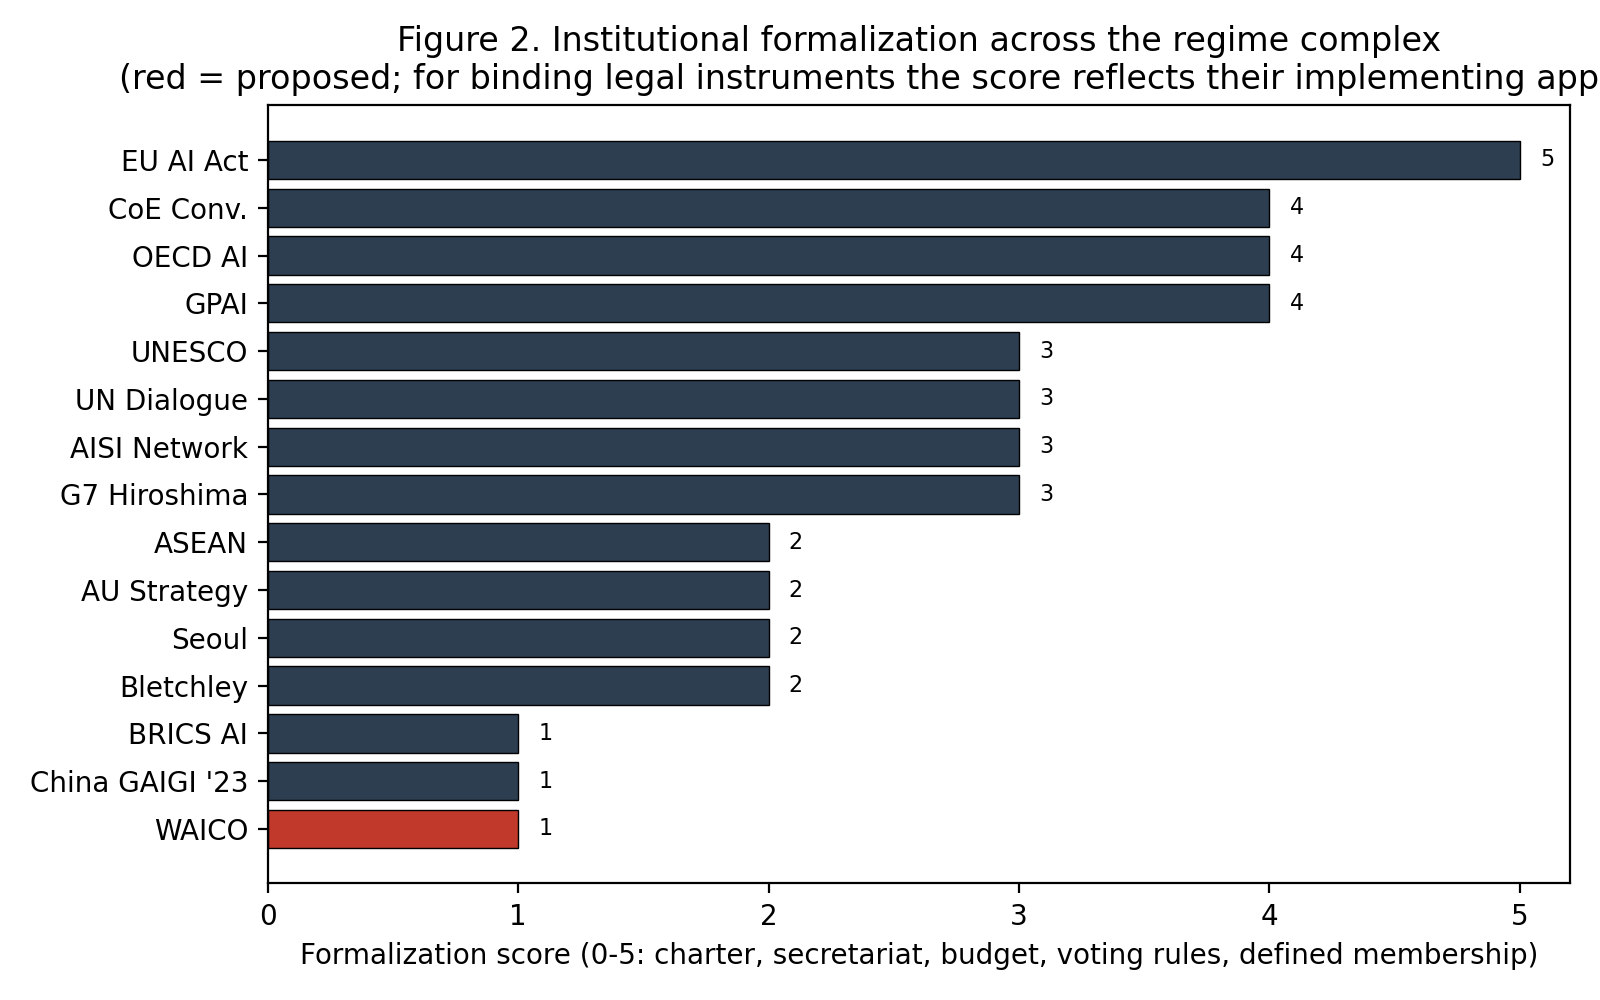
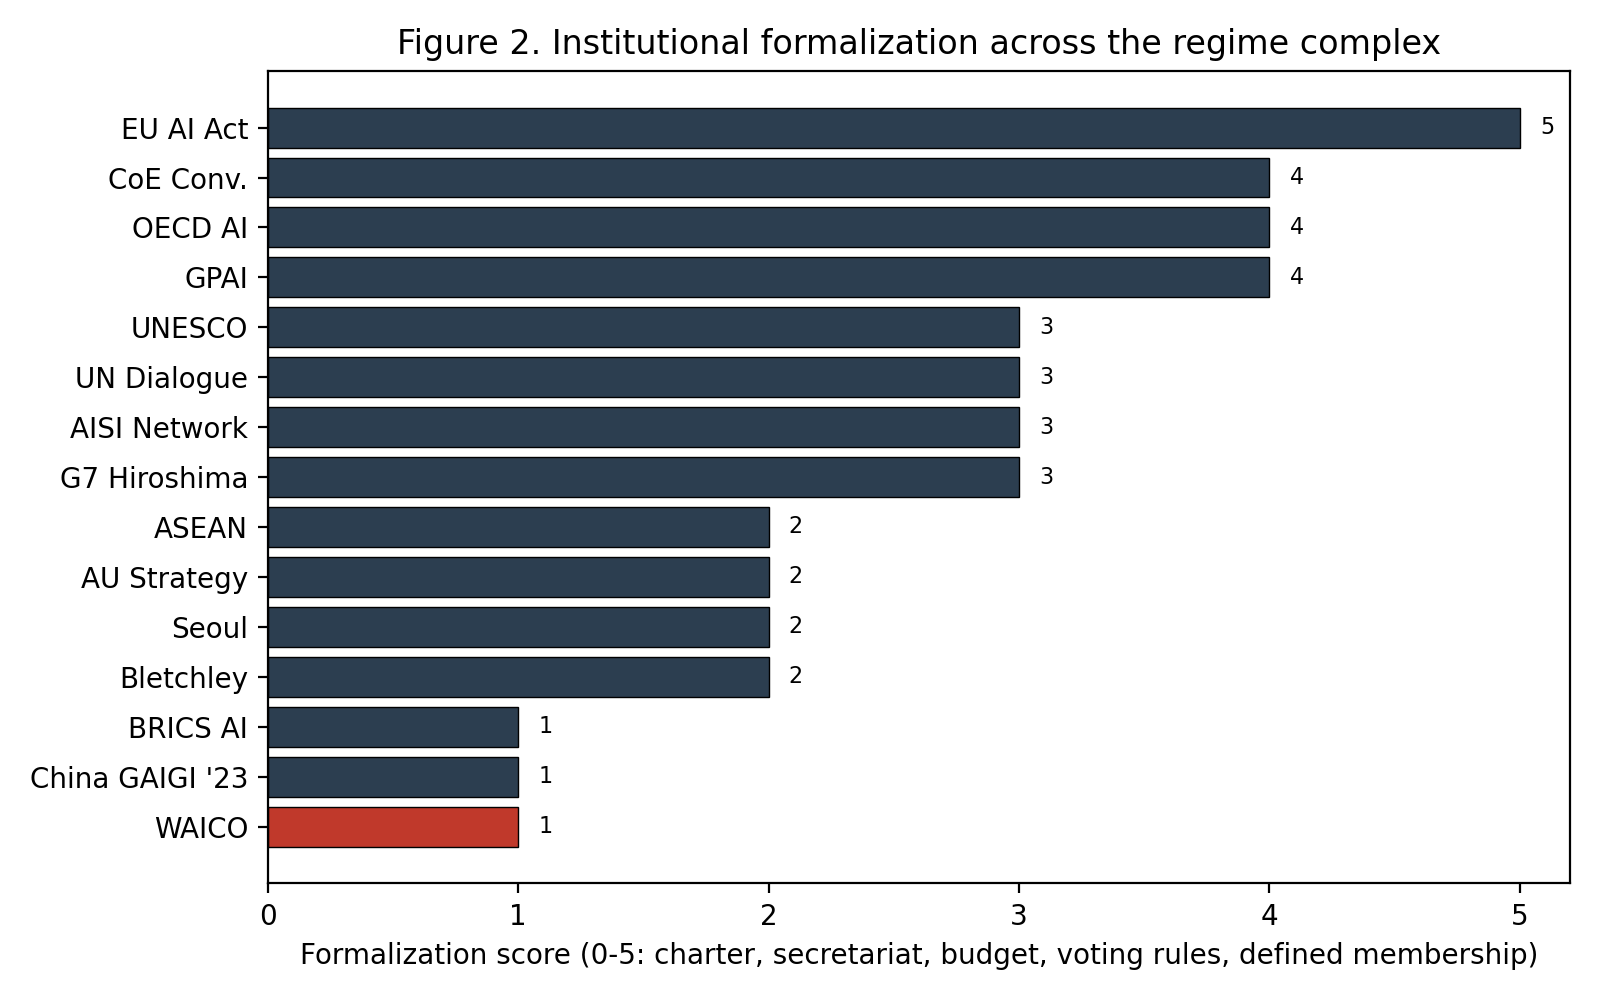
Fix Figure 2 title truncation

Changed region(s): [[0.0312, 0.031, 1.0, 0.868]]

diff --git a/analysis.py b/analysis.py
@@ -164,7 +164,7 @@ ds = df.sort_values("definedness")
 colors = ["#c0392b" if s == "proposed" else "#2c3e50" for s in ds["status"]]
 ax2.barh(ds["lab"], ds["definedness"], color=colors, edgecolor="black", linewidth=0.5)
 ax2.set_xlabel("Formalization score (0-5: charter, secretariat, budget, voting rules, defined membership)")
-ax2.set_title("Figure 2. Institutional formalization across the regime complex\n(red = proposed; for binding legal instruments the score reflects their implementing apparatus)")
+ax2.set_title("Figure 2. Institutional formalization across the regime complex")
 ax2.set_xlim(0, 5.2)
 for i, (v, s) in enumerate(zip(ds["definedness"], ds["status"])):
     ax2.text(v + 0.08, i, f"{v:.0f}", va="center", fontsize=8)